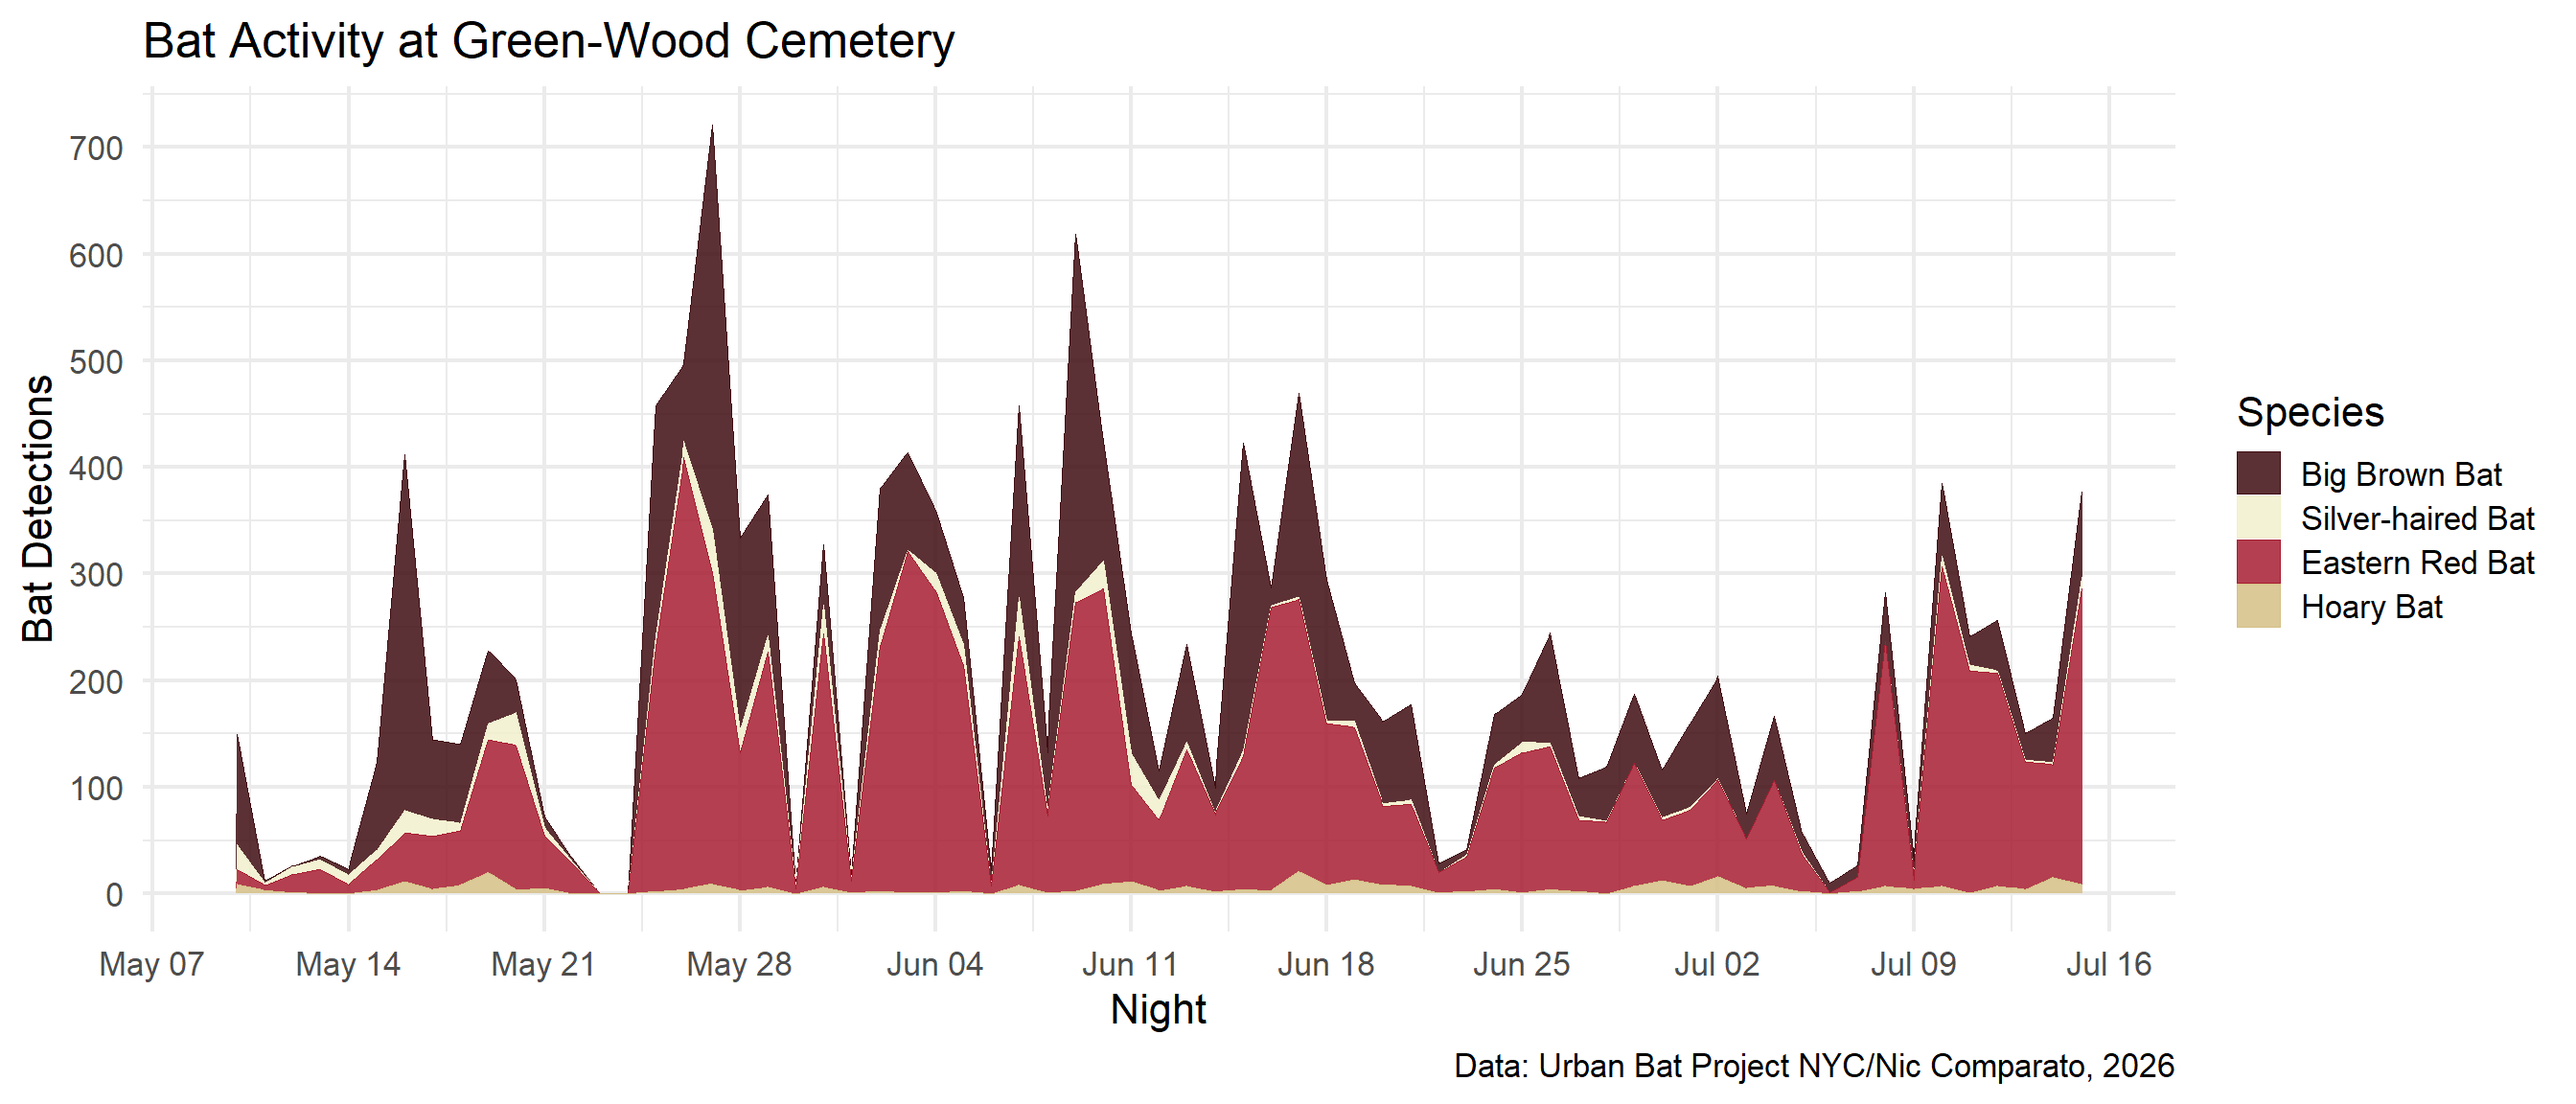
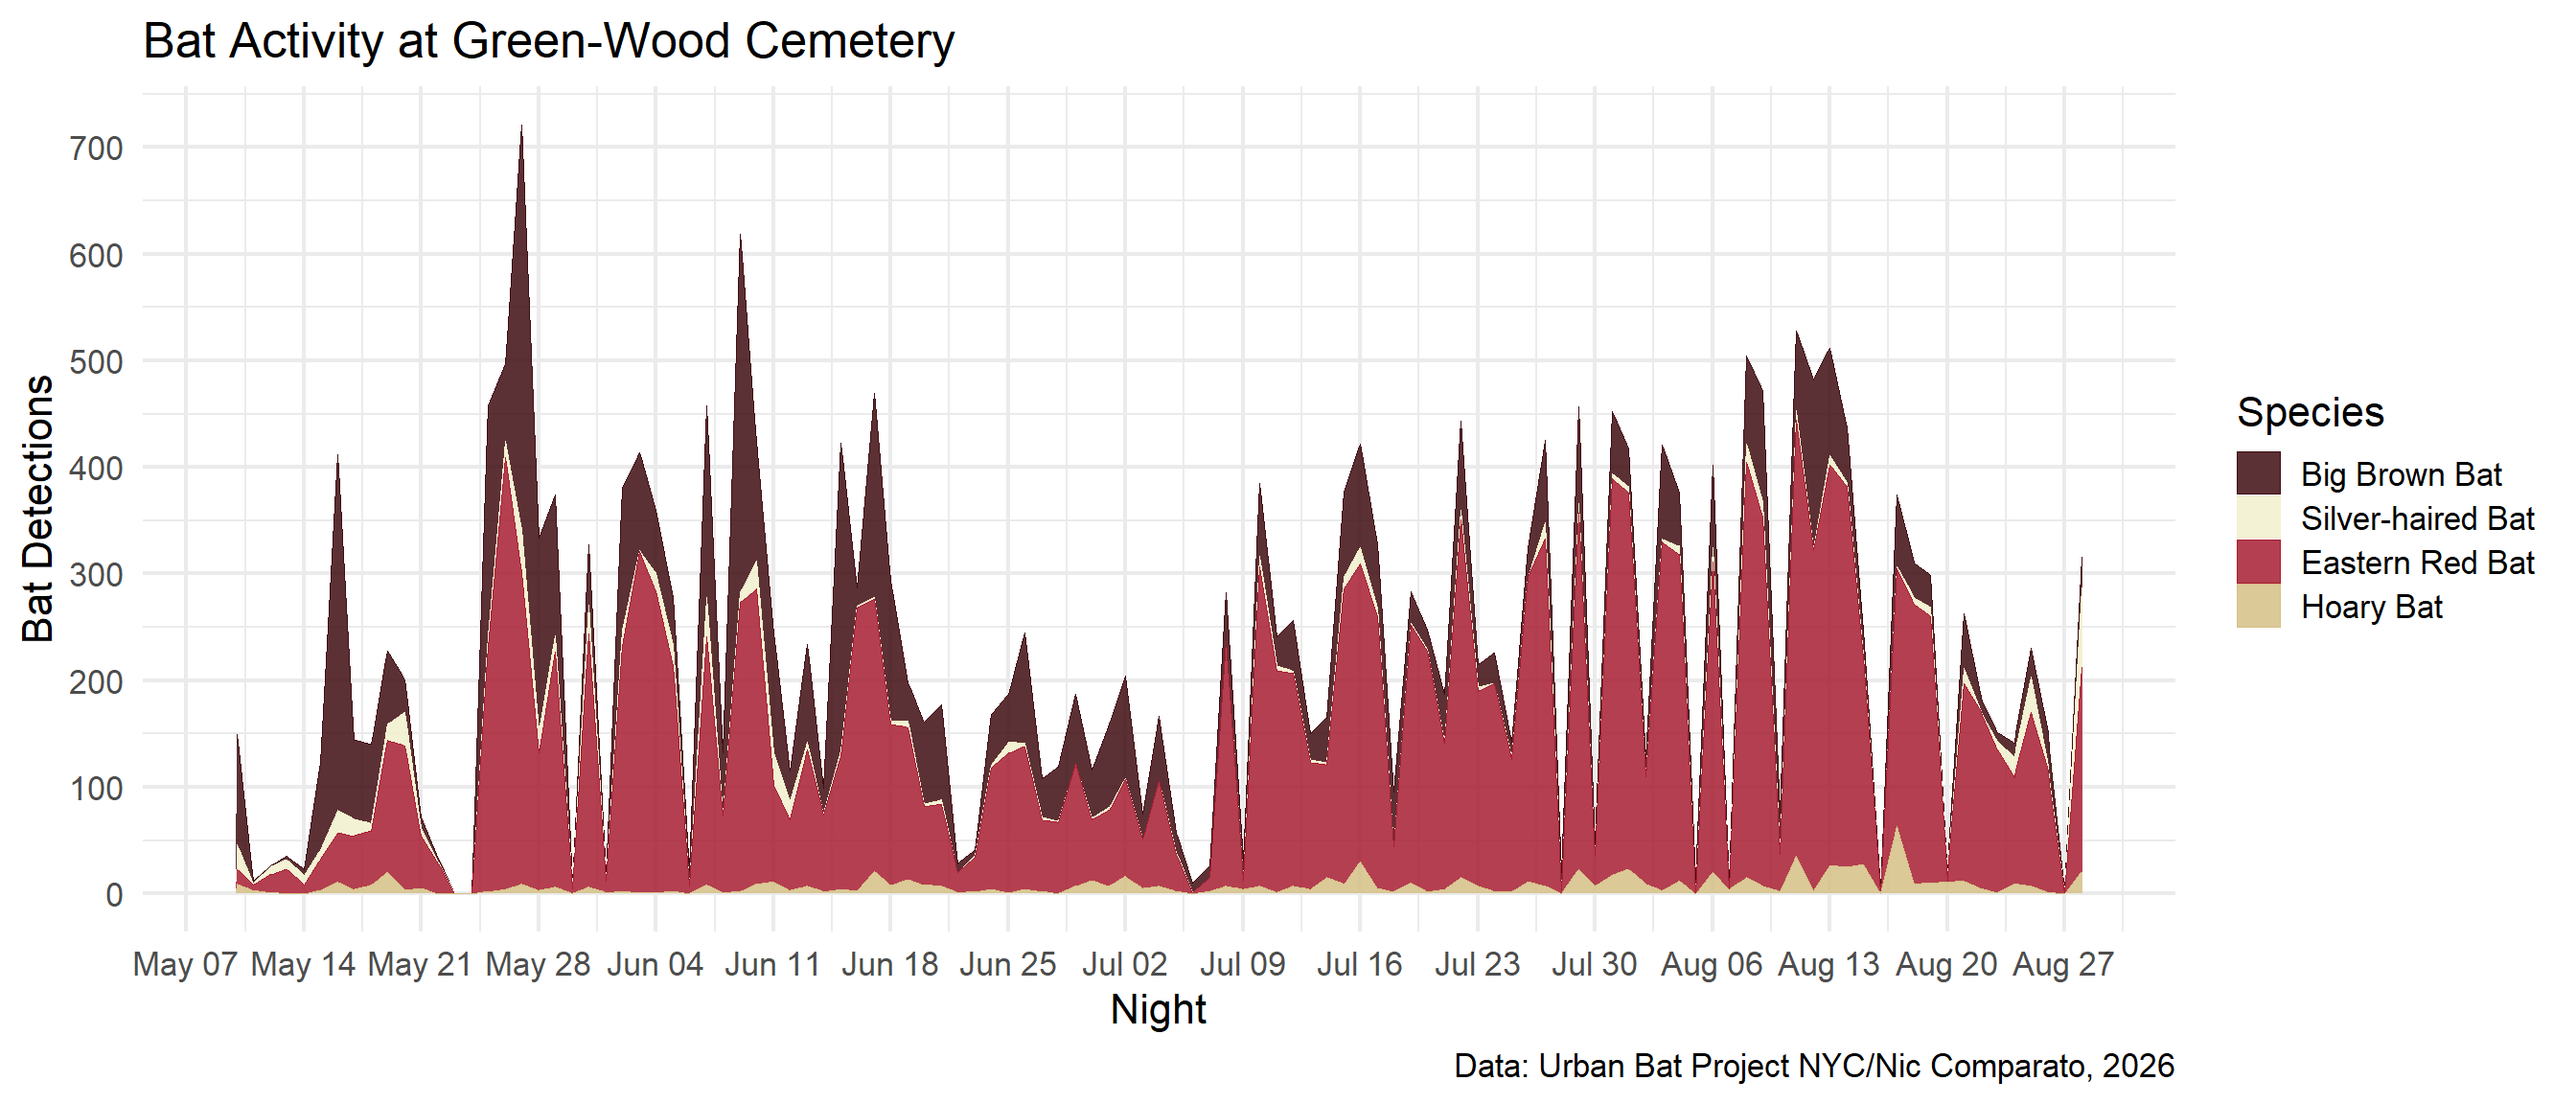
Built site for gh-pages

diff --git a/Green-Wood Cemetery.html b/Green-Wood Cemetery.html
@@ -110,7 +110,7 @@ ul.task-list li input[type="checkbox"] {
 </header>
 
 
-<p>The graph below displays bat activity recorded at the Botanical Garden at Naval Cemetery Landscape in Williamsburg, Brooklyn. This is our second year working with the Brooklyn Greenway Initiative at this site, with this year’s surveys beginning on May 29, 2026. This data was <strong>last updated August 15, 2026</strong>. The graph displays the survey nights in chronological order from left to right (x-axis) and and the number of bats detected each night are represented by the vertical peaks and valleys (y-axis).</p>
+<p>The graph below displays bat activity recorded at Green-Wood Cemetery in central Brooklyn. Surveys this year began on May 10th and <strong>this data was</strong> <strong>last updated August 29, 2026</strong>. The graph displays the survey nights in chronological order from left to right (x-axis) and and the number of bats detected each night are represented by the vertical peaks and valleys (y-axis).</p>
 <div class="cell page-columns page-full">
 <div class="cell-output-display page-columns page-full">
 <div class="page-columns page-full">
@@ -120,14 +120,15 @@ ul.task-list li input[type="checkbox"] {
 </div>
 </div>
 </div>
-<section id="big-brown-bats-and-eastern-red-bats-two-very-different-approaches-to-nyc" class="level3">
-<h3 class="anchored" data-anchor-id="big-brown-bats-and-eastern-red-bats-two-very-different-approaches-to-nyc">Big Brown Bats and Eastern Red Bats: Two Very Different Approaches to NYC</h3>
-<p>The two most commonly detected species at the Naval Cemetery Landscape are the <strong>eastern red bat</strong> (<em>Lasiurus borealis</em>) and <strong>big brown bat</strong> (<em>Eptesicus fuscus</em>). You can see by the alternating colors above that they regularly fluctuate in terms of who is more common.</p>
-<p>Eastern red bats are nomadic, migratory bats that spend the summer in NYC. They typically move to a new location every 1-2 days and are extremely flexible in their habitat requirements. Big brown bats, on the other hand, are very particular about finding the best quality habitat available. Once they’ve found a spot they like, they’ll make it their home until its time for them to hibernate in the winter.</p>
+<section id="not-just-a-cemetery-green-woods-unique-value-for-nycs-bats" class="level3">
+<h3 class="anchored" data-anchor-id="not-just-a-cemetery-green-woods-unique-value-for-nycs-bats">Not just a cemetery: Green-Wood’s unique value for NYC’s bats</h3>
+<p>Since first opening the cemetery to our bat surveys in 2024, Green-Wood has become our longest-running research partner and a crucial window into what bat activity can be like in NYC’s green spaces. The first year of surveys revealed the cemetery to host surprisingly high bat activity levels, even matching levels found in rural areas with far more habitat and resources like the Adirondack Mountains of upstate New York. Every year of subsequent research has helped us better understand why bats are so drawn to the cemetery and how unique this area is compared to other parks in the city.</p>
+<p>In 2025, we found evidence that the cemetery was uniquely appealing to big brown bats (<em>Eptesicus fuscus</em>), hosting, on average, 8x the big brown bat activity of neighboring Prospect Park. Furthermore, this species seemed especially drawn to the resource-rich areas around the park’s border, while the center of the park was dominated by a different bat species, the eastern red bat (<em>Lasiurus borealis).</em></p>
+<p>Surveys in the cemetery over the winter of 2025/2026 revealed some of the first evidence that our migratory bat species, like hoary bats (<em>Lasiurus cinereus</em>) and silver-haired bats (<em>Lasionycteris noctivagans</em>) may breed in the cemetery during brief winter-time activity bouts.</p>
 <div style="display: flex; gap: 20px;">
 <div style="flex: 1; margin: 0;">
-<p><img src="LABO.jpg" class="img-fluid" style="width:100.0%"></p>
-<p><em>Eastern Red Bat</em></p>
+<p><img src="C:/Users/ncomp/Documents/QuartoMaps/GWBBMAP.png" class="img-fluid" style="width:100.0%"></p>
+<p><em>A “hot spot” map of big brown activity in Green-Wood</em></p>
 </div>
 <div style="flex: 1; margin: 0;">
 <p><img src="EPFU.png" class="img-fluid" style="width:100.0%"></p>
@@ -135,10 +136,13 @@ ul.task-list li input[type="checkbox"] {
 </div>
 </div>
 </section>
-<section id="about-the-brooklyn-greenway-initiative-and-the-botanical-garden-at-naval-cemetery-landscape" class="level3">
-<h3 class="anchored" data-anchor-id="about-the-brooklyn-greenway-initiative-and-the-botanical-garden-at-naval-cemetery-landscape">About the Brooklyn Greenway Initiative and the Botanical Garden at Naval Cemetery Landscape</h3>
-<p>Brooklyn Greenway Initiative is the team behind the restoration of Naval Cemetery Landscape. We began working with them in 2025 and they have been incredible partners in research. In 2026, we began offering bat walks at this location. From their website:</p>
-<p>Brooklyn Greenway Initiative built the Naval Cemetery Landscape (now called the Greenway Botanical Garden at the Naval Cemetery) in 2016 on the site of the former Naval Hospital Cemetery at the Brooklyn Navy Yard as a place for retreat and remembrance while honoring its rich layers of natural and cultural history. This site was designed as a native plant meadow and pollinator habitat, and provides visitors with an escape from urban life. Many rare birds and insects can be seen here. There are magnifying glasses on site and visitors are encouraged to bring their own binoculars to observe the bird species from the boardwalk</p>
+<section id="bat-walks-at-green-wood-cemetery" class="level3">
+<h3 class="anchored" data-anchor-id="bat-walks-at-green-wood-cemetery">Bat Walks at Green-Wood Cemetery</h3>
+<p>Urban Bat Project NYC is proud to be Green-Wood’s official partner for bat walks. The cemetery hosts several bat walks a year, though they tend to fill up quickly. We recommend keeping a close eye on their summer events calendar for anyone interested. We also host one event our own on the cemetery grounds each year (thanks in large part to the generosity of Green-Wood’s events department). In 2026, Green-Wood was the site of our first combination bat watching and star gazing event.</p>
+</section>
+<section id="about-green-wood-cemetery" class="level3">
+<h3 class="anchored" data-anchor-id="about-green-wood-cemetery">About Green-Wood Cemetery</h3>
+<p>Green-Wood Cemetery is one of New York City’s oldest best-known landmarks and one of the oldest examples of a “rural” cemetery in the nation. Beyond its rich history and landmark status, the cemetery is also an incredible supporter of urban ecological research. Each year, they award an environmental fellowship to support research within the cemetery. We are very grateful to have been a recipient of this fellowship in 2025. To learn more about the cemetery, <a href="https://www.green-wood.com/about-history/">we recommend visiting the official Green-Wood website</a>.</p>
 
 
 </section>
